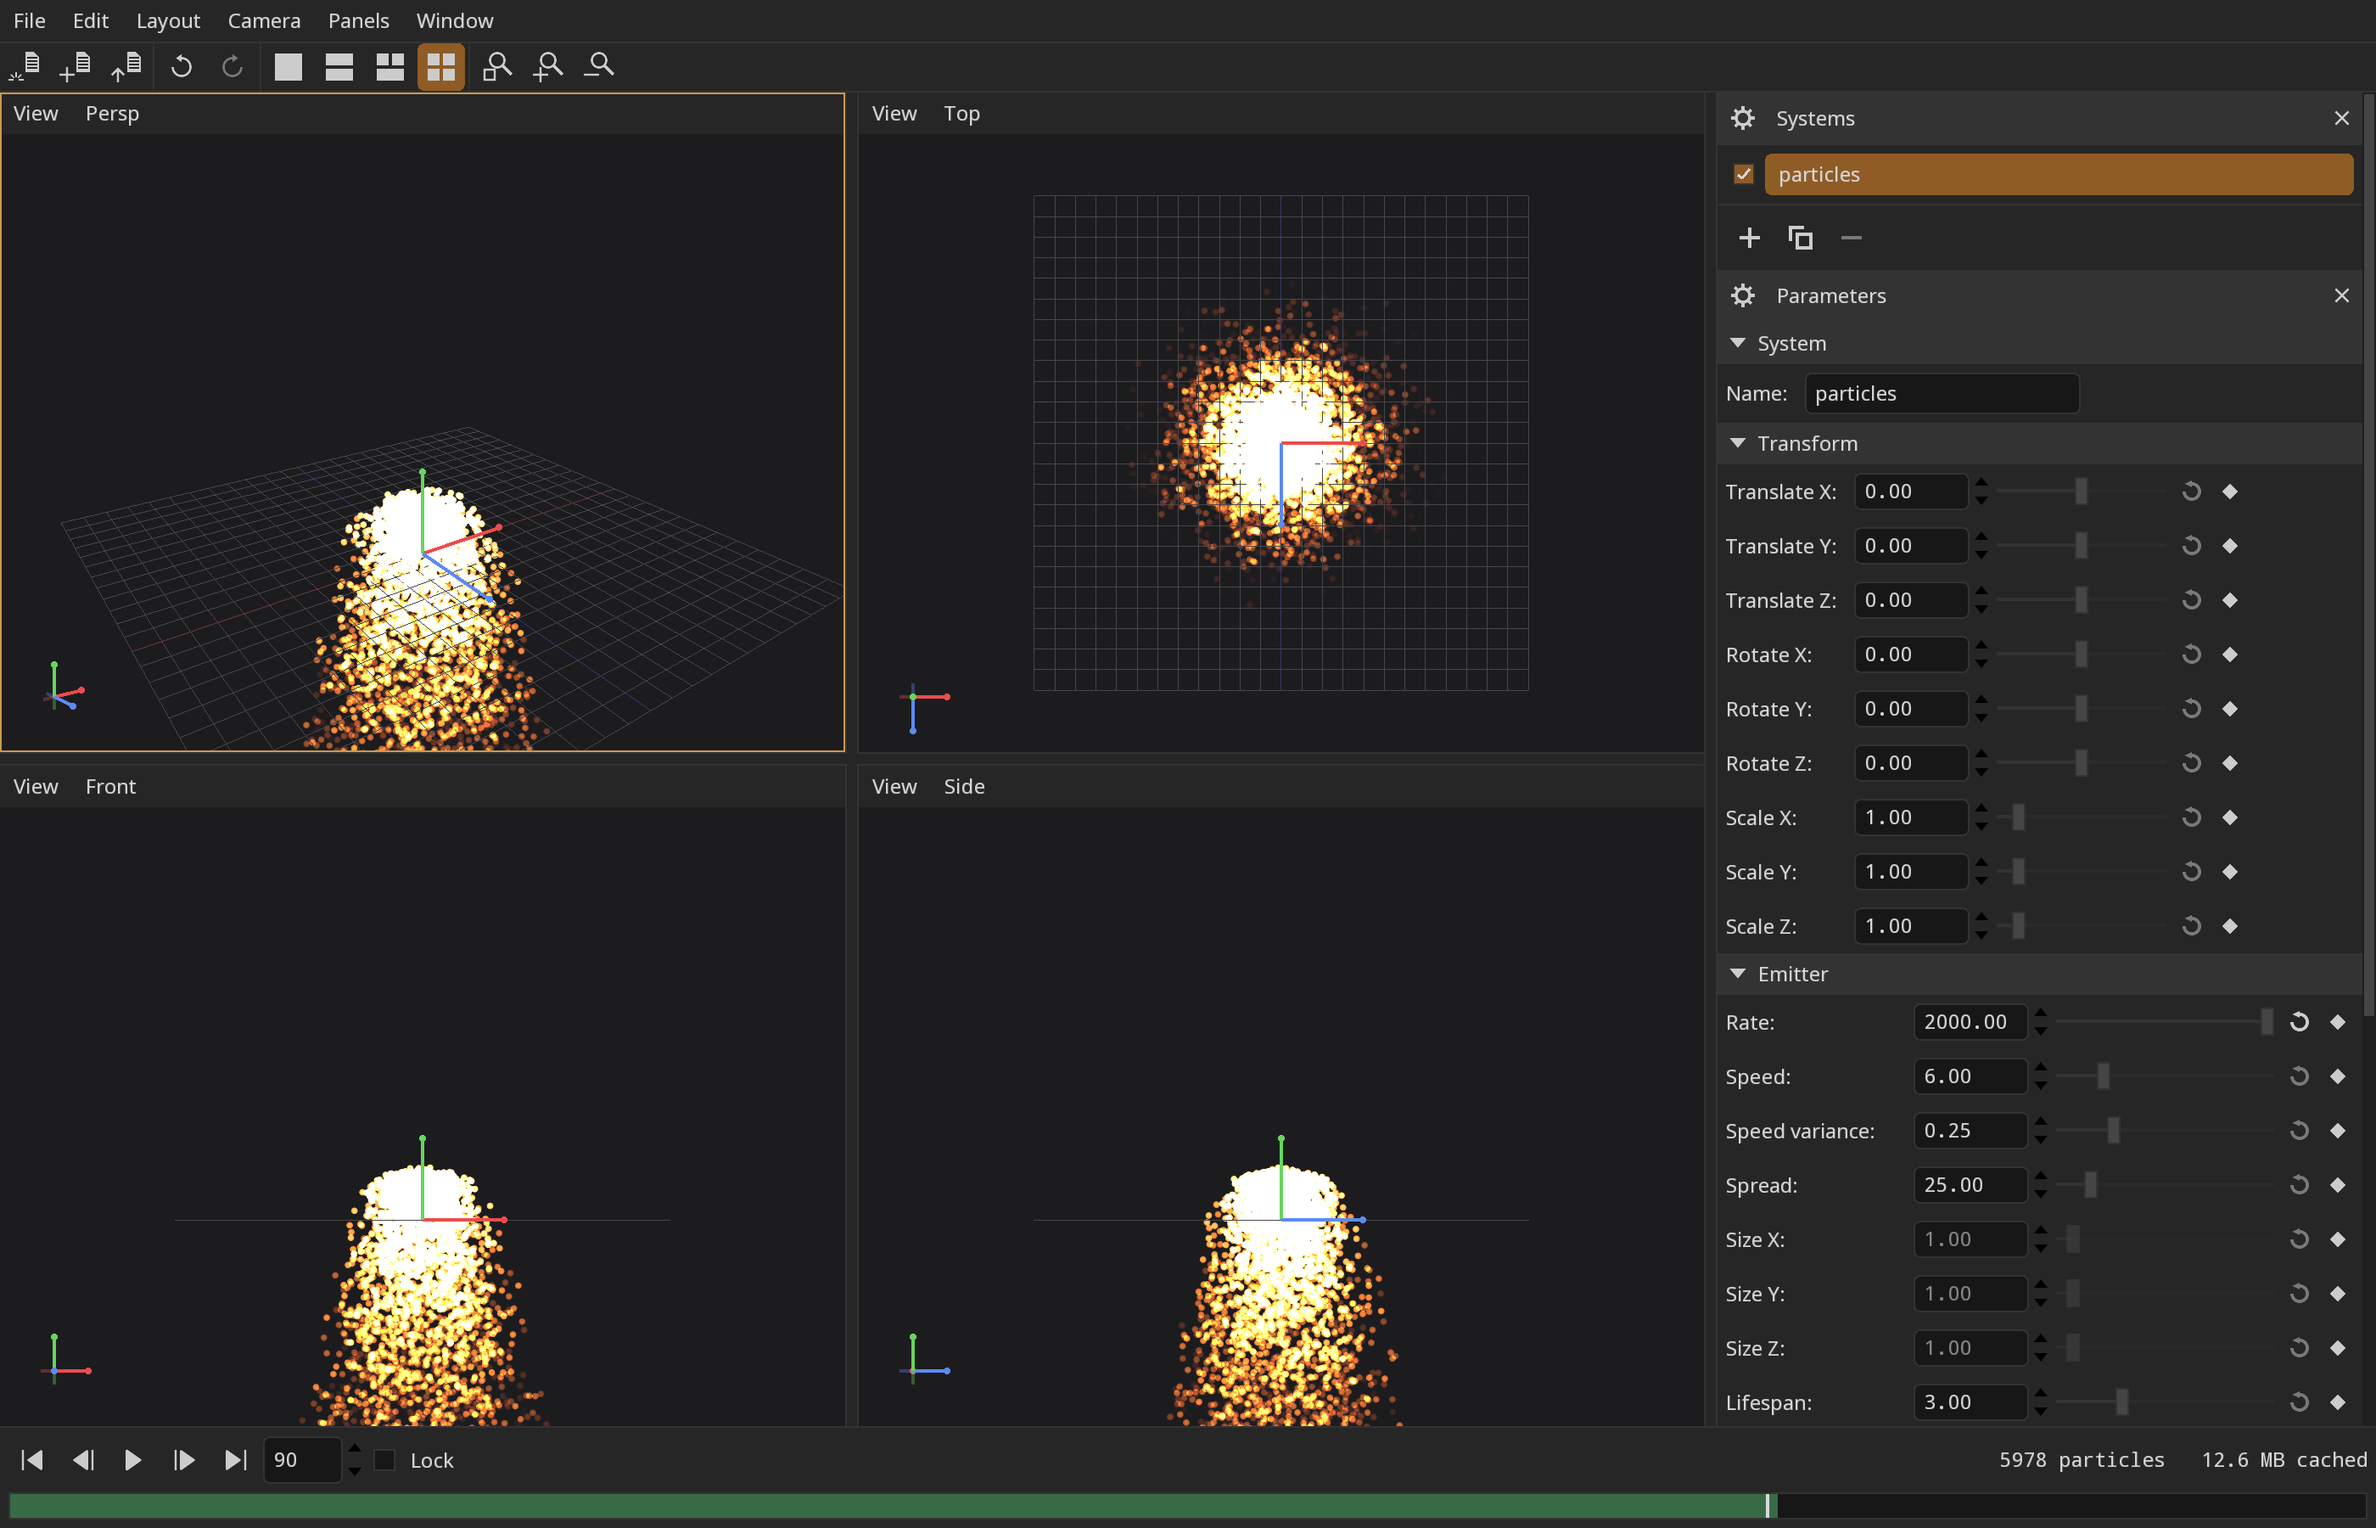
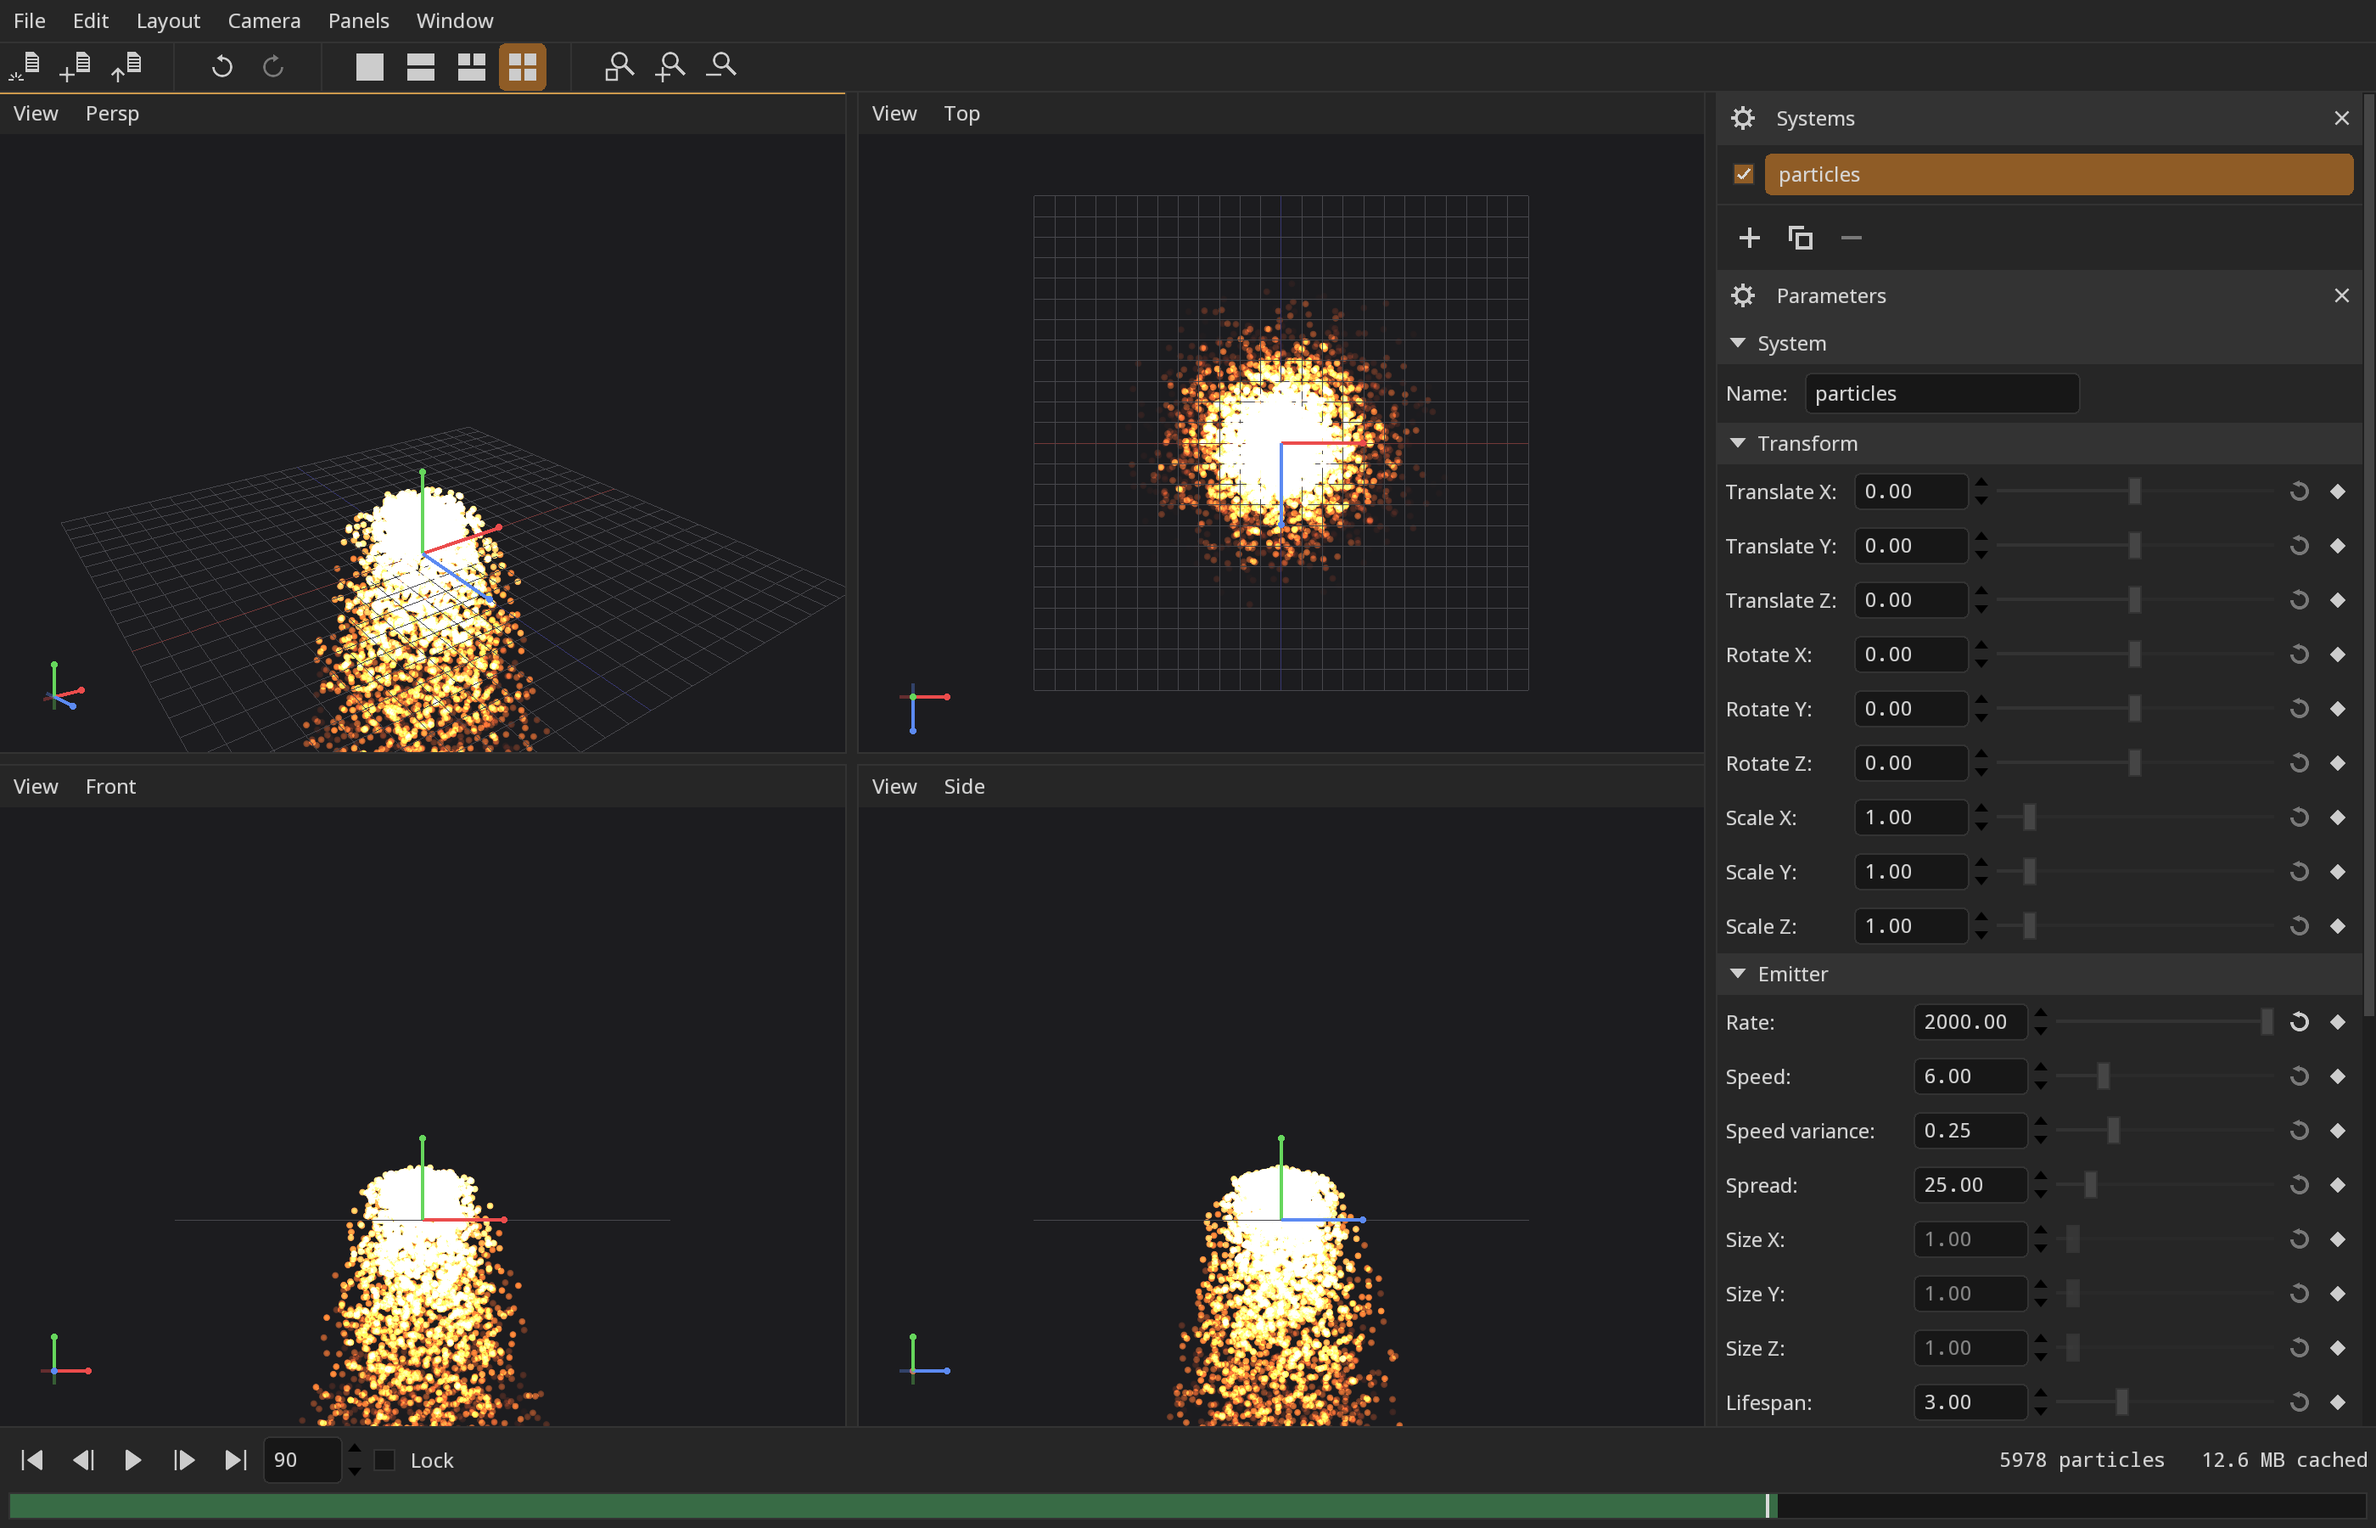
Three small ones in the interface
The transform sliders did not expand, so each row was as wide as the widest
thing in its own group -- and the groups are separate form layouts, so
Transform sized itself against Transform while Emitter reached further. The
defect only existed between the two, and only in a window wide enough for
the answers to differ.

A spacer either side of each tool bar divider, so a group reads as a group
rather than as a row with lines in it.

The current editor is a bar along its top edge rather than a border round
the whole of it. Four editors outlined in the accent colour is a lot of
colour for one bit of information, and the top edge is where the header is
already drawing the eye.

diff --git a/lib/fx/App/MainWindow.cpp b/lib/fx/App/MainWindow.cpp
@@ -14,6 +14,7 @@
 #include <ftk/UI/ActionGroup.h>
 #include <ftk/UI/DialogSystem.h>
 #include <ftk/UI/Divider.h>
+#include <ftk/UI/Spacer.h>
 #include <ftk/UI/FileBrowser.h>
 #include <ftk/UI/Menu.h>
 #include <ftk/UI/MenuBar.h>
@@ -471,10 +472,19 @@ namespace fx
             // addWidget rather than parenting to the tool bar: it is a
             // container that manages one widget, and anything else parented to
             // it is never given a geometry.
+            // A divider with room either side of it. On its own it reads as
+            // one more thing in the row rather than as a gap between groups:
+            // the eye needs the space more than it needs the line.
             const auto divide = [context, toolBar]
             {
+                auto before = Spacer::create(context, Orientation::Horizontal);
+                before->setSpacingRole(SizeRole::Spacing);
+                toolBar->addWidget(before);
                 toolBar->addWidget(
                     Divider::create(context, Orientation::Horizontal));
+                auto after = Spacer::create(context, Orientation::Horizontal);
+                after->setSpacingRole(SizeRole::Spacing);
+                toolBar->addWidget(after);
             };
             toolBar->addAction(_newAction);
             toolBar->addAction(_openAction);

diff --git a/lib/fx/App/ParametersPanel.cpp b/lib/fx/App/ParametersPanel.cpp
@@ -37,6 +37,10 @@ namespace fx
             row.info = info;
 
             row.slider = FloatEditSlider::create(context);
+            // Otherwise a row is as wide as the widest thing in its own group,
+            // so Transform's sliders stop short of Emitter's and the column
+            // reads as two panels that failed to line up.
+            row.slider->setHStretch(Stretch::Expanding);
             row.slider->setRange(info.min, info.max);
             row.slider->setValue(info.parameter->getConstant());
             row.slider->setDefault(info.defaultValue);
@@ -95,6 +99,7 @@ namespace fx
             // that have no key button still line up.
             auto hLayout = HorizontalLayout::create(context);
             hLayout->setSpacingRole(SizeRole::SpacingTool);
+            hLayout->setHStretch(Stretch::Expanding);
             row.slider->setParent(hLayout);
             row.keyButton->setParent(hLayout);
             layout->addRow(info.name + ":", hLayout);

diff --git a/lib/fx/App/Editor.cpp b/lib/fx/App/Editor.cpp
@@ -291,8 +291,14 @@ namespace fx
             // border drawn there survived only where the header did not reach.
             if (_current)
             {
-                event.render->drawMesh(
-                    border(getGeometry(), _border),
+                // A bar along the top rather than a box round the whole
+                // editor. Four editors each outlined in an accent colour is a
+                // lot of colour for one bit of information, and the top edge
+                // is where the header already is -- the eye is looking there
+                // to read what the editor is showing.
+                const Box2I& g = getGeometry();
+                event.render->drawRect(
+                    Box2I(g.min.x, g.min.y, g.w(), _border),
                     event.style->getColorRole(ColorRole::KeyFocus));
             }
         }

diff --git a/JOURNAL.md b/JOURNAL.md
@@ -7,6 +7,30 @@ Newest entries at the top.
 
 ---
 
+## 2026-08-11 — Three small ones, and what the first was really about
+
+**The transform sliders stopped short of the emitter's.** They were not set to
+expand, so each row was as wide as the widest thing in its own group -- and the
+groups are separate `FormLayout`s, so Transform sized itself against Transform
+and Emitter against Emitter. Two columns of controls that almost line up read
+as a bug in the layout, which is what it was. Expanding, they all reach the
+same edge.
+
+Worth noting the shape of it: nothing was wrong inside either group. The defect
+only existed *between* them, and only became visible once the window was wide
+enough for the two answers to differ. A narrow window hides it completely.
+
+**The tool bar groups needed air.** A divider with buttons hard against it on
+both sides is one more thing in the row rather than a gap between groups. A
+spacer either side, and the eye does the grouping without being told.
+
+**The current editor was shouting.** A whole border in the accent colour, times
+four editors, is a great deal of colour spent on one bit of information -- and
+the information is not "here is a region", it is "this one". A bar along the
+top edge says the same thing at a quarter of the volume, and it lands where the
+header already is, which is where the eye goes to read what the editor is
+showing.
+
 ## 2026-08-11 — The manipulator answers to the mouse, not to the scene
 
 Reported again, in a different dress: from an emitter at X = 118, dragging the
